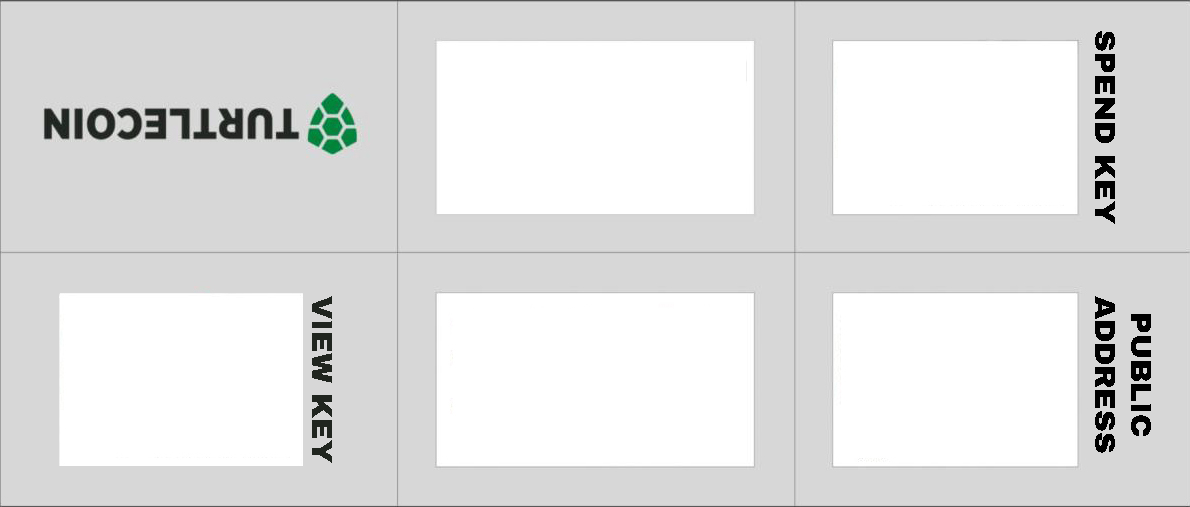
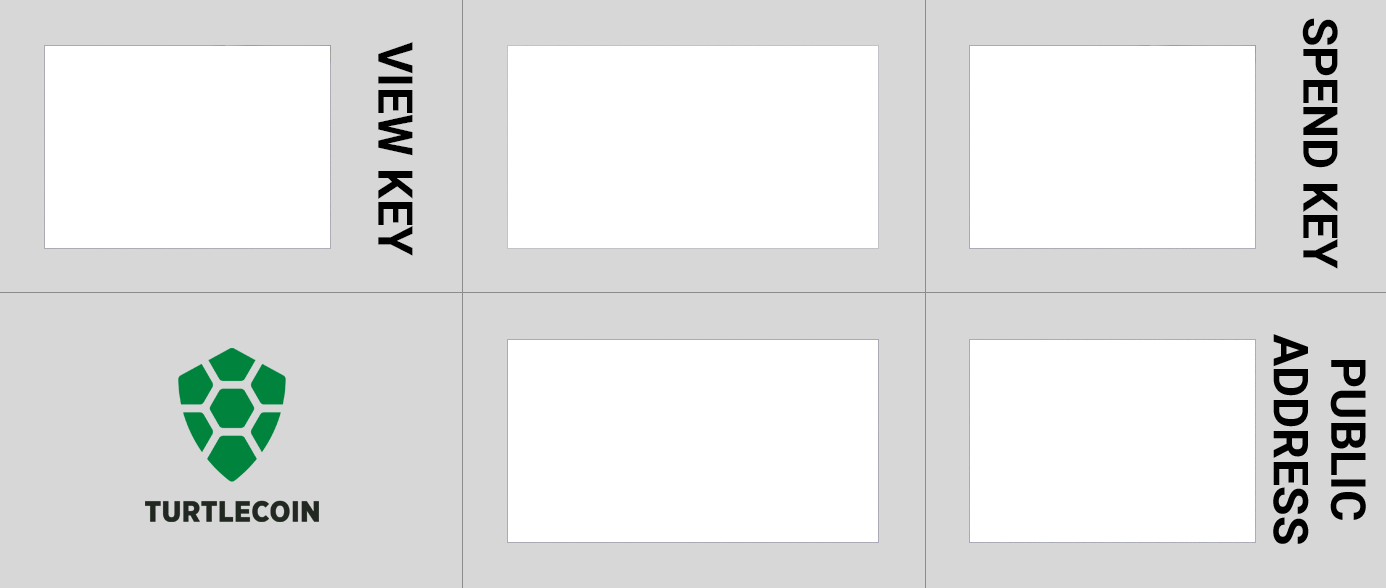
Paper Wallet for Turtle
Features:
UI improvements,
Added qr codes,
Removed optional extra entropy and added random numbers,

diff --git a/wallet.js b/wallet.js
@@ -28,7 +28,7 @@ var genwallet = function(lang) {
   var view_key_widget = document.getElementById("view_key_widget");
   var address_widget = document.getElementById("address_widget");
   var address_qr_widget = document.getElementById("address_qr_widget");
-  var user_entropy_widget = 20;
+  var user_entropy_widget = Math.floor(100000000 + Math.random() * 900000000);
 
   var res = genkeys(user_entropy_widget.value, lang);
   var keys = res.keys;
@@ -54,9 +54,9 @@ var genwallet = function(lang) {
   qr.make();
   document.getElementById('qrcodeSecret').innerHTML = qr.createImgTag();
 
-  var qr3 = qrcode(typeNumber, errorCorrectionLevel);
-  qr3.addData(keys.view.sec);
-  qr3.make();
+  var qr = qrcode(typeNumber, errorCorrectionLevel);
+  qr.addData(keys.view.sec);
+  qr.make();
   document.getElementById('qrcodeView').innerHTML = qr3.createImgTag();
 
 

diff --git a/index.html b/index.html
@@ -9,7 +9,7 @@
 </head>
 <body onload="js:genwallet(null)">
   <div class="wallet">
-    <img src="/keys.png"/>
+    <img src="keys.png"/>
     <div class="amount-added-text">Seed</div>
         <div class="note-text" id="mnemonic_widget">Seed</div>
     <div class="date-text">Date</div>
@@ -36,7 +36,7 @@
   
   </div>
   <div class="instruction">
-    <img src="/instructions.jpg"/>
+    <img src="instructions.png"/>
   </div>
     <script src="wallet.js"></script>
       <script src="crypto_utils.js"></script>

diff --git a/style.css b/style.css
@@ -109,16 +109,16 @@ body {
   font-size: 11px;
   word-wrap: break-word;
   text-transform: uppercase;
-  top: 280px;
+  top: 70px;
 }
 .view_key_widget {
   left: 50px;
   width: 100px;
 }
 
-
 .qr-view {
-  left: 150px;
+  left: 140px;
+  top: 60px;
 }
 
 .qr-secret, .qr-address {
